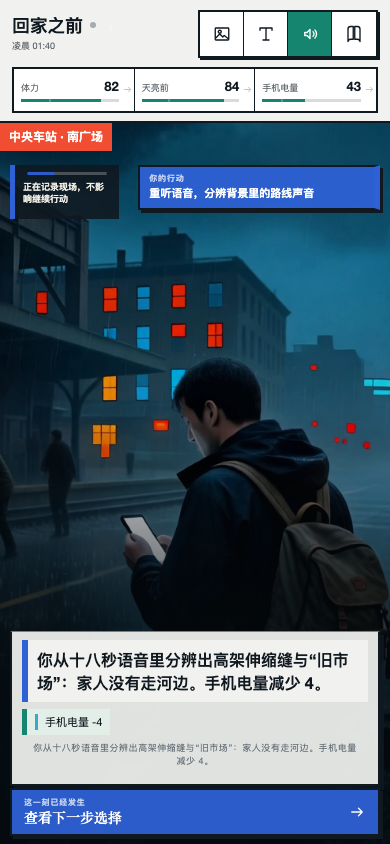
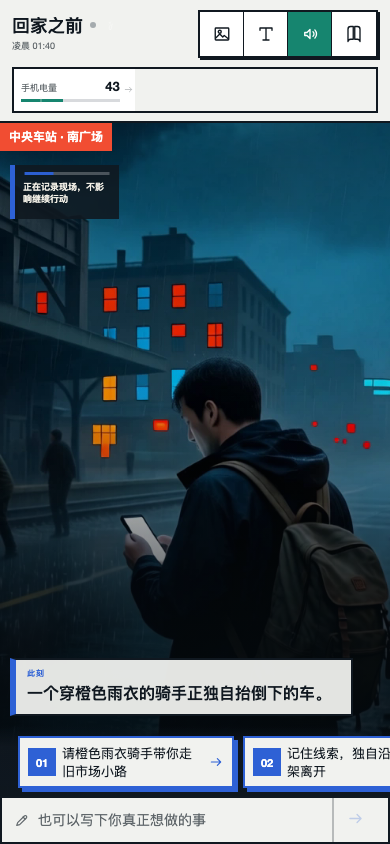
Strengthen RPG domain rules and openings

diff --git a/src/story/cartridges/beforeWeGetHome.ts b/src/story/cartridges/beforeWeGetHome.ts
@@ -14,10 +14,18 @@ function build(locale: Locale): StoryCartridge {
   const domainRules: StoryDomainRules = {
     rules: [
       {
+        id: 'hear-last-message', intent: 'hear-last-message',
+        match: zh ? ['播放母亲留下的最后一条语音'] : ["play mother's last message"],
+        requirements: [{ type: 'fact', id: 'opening-message-heard', notEquals: true, reason: s('这段语音已经播放过，不能重复结算第一次听见它的代价。', 'The message has already played; its first-hearing cost cannot resolve twice.') }],
+        effects: [{ type: 'stat', id: 'battery', delta: -4 }, { type: 'fact', id: 'opening-message-heard', value: true }, { type: 'fact', id: 'voice-old-market-clue', value: true }, { type: 'fact', id: 'battery-stat-revealed', value: true }],
+        successText: s('你亲手播放那十八秒语音。母亲让你别走河边；雨声后还有三次高架伸缩缝的低响和一句“旧市场”。手机电量从 47 降到 43。近处，一个穿橙色雨衣的骑手正独自抬倒下的车。', 'You play the eighteen-second message yourself. Mother warns you away from the river; beneath the rain are three overpass-joint thumps and “Old Market.” Battery falls from 47 to 43. Nearby, a rider in an orange rain jacket struggles with a fallen scooter.'),
+        successChoices: zh ? ['请橙色雨衣骑手带你走旧市场小路', '记住线索，独自沿高架离开', '把线索告诉车站救援人员核对'] : ['Ask the orange-jacket rider to guide you through Old Market', 'Keep the clue and leave alone by the elevated road', 'Share the clue with station rescuers for verification'],
+      },
+      {
         id: 'replay-last-message', intent: 'replay-last-message',
         match: zh ? ['重听语音', '分辨背景里的路线声音', '再听一次语音'] : ['replay the message', 'identify background route sounds', 'listen to the message again'],
         requirements: [{ type: 'fact', id: 'voice-old-market-clue', notEquals: true, reason: s('你已经确认了旧市场线索，重复播放不会产生第二条线索。', 'You already confirmed the Old Market clue; replaying cannot create a second clue.') }],
-        effects: [{ type: 'stat', id: 'battery', delta: -4 }, { type: 'fact', id: 'voice-old-market-clue', value: true }],
+        effects: [{ type: 'stat', id: 'battery', delta: -4 }, { type: 'fact', id: 'voice-old-market-clue', value: true }, { type: 'fact', id: 'battery-stat-revealed', value: true }],
         successText: s('你从十八秒语音里分辨出高架伸缩缝与“旧市场”：家人没有走河边。手机电量减少 4。', 'You isolate elevated-road joints and “Old Market” in the message: the family avoided the river. Battery falls by 4.'),
         successChoices: zh ? ['请橙色雨衣骑手带你走旧市场小路', '记住线索，独自沿高架离开', '把线索告诉车站救援人员核对'] : ['Ask the orange-jacket rider to guide you through Old Market', 'Keep the clue and leave alone by the elevated road', 'Share the clue with station rescuers for verification'],
         rejectionChoices: zh ? ['请橙色雨衣骑手带路', '立即沿高架离开车站', '先帮助广场居民撤离'] : ['Ask the orange-jacket rider for directions', 'Leave immediately by the elevated road', 'Help residents evacuate the plaza'],
@@ -26,10 +34,26 @@ function build(locale: Locale): StoryCartridge {
         id: 'help-ahe-and-exit', intent: 'help-ahe-and-exit',
         match: zh ? ['帮广场上的骑手抬开倒下的车', '请橙色雨衣骑手带你走旧市场小路', '请骑手带你走旧市场小路'] : ['help a rider move a fallen scooter', 'ask the orange-jacket rider to guide you through Old Market', 'ask the rider to guide you through the Old Market'],
         requirements: [{ type: 'fact', id: 'station-exited', notEquals: true, reason: s('你们已经离开车站，不能再次结算同一次相遇。', 'You have already left the station; the same meeting cannot resolve twice.') }],
-        effects: [{ type: 'party', change: 'add', characterId: 'ahe-rider' }, { type: 'map', nodeId: 'old-market' }, { type: 'stat', id: 'time', delta: -7 }, { type: 'fact', id: 'station-exited', value: true }, { type: 'objective', value: s('穿过旧市场火点，继续追踪家人', 'Cross the Old Market fire and continue tracking the family') }, { type: 'clock', value: s('凌晨 02:05', '02:05 AM') }],
+        effects: [{ type: 'party', change: 'add', characterId: 'ahe-rider' }, { type: 'map', nodeId: 'old-market' }, { type: 'stat', id: 'time', delta: -7 }, { type: 'stat', id: 'stamina', delta: -3 }, { type: 'fact', id: 'station-exited', value: true }, { type: 'fact', id: 'time-stat-revealed', value: true }, { type: 'fact', id: 'stamina-stat-revealed', value: true }, { type: 'objective', value: s('穿过旧市场火点，继续追踪家人', 'Cross the Old Market fire and continue tracking the family') }, { type: 'clock', value: s('凌晨 02:05', '02:05 AM') }],
         successText: s('橙色雨衣骑手先扶正电动车，才说自己叫阿禾；她也在找夜班姐姐，并与你同行到旧市场。天亮前减少 7。', 'The orange-jacket rider rights the scooter before naming herself Ahe. She is searching for her night-shift sister and joins you to Old Market. Before-dawn time falls by 7.'),
         successChoices: zh ? ['和阿禾先拉下市场总电闸', '从屋顶雨棚绕过火点继续赶路', '呼喊店内的人并组织居民撤离'] : ['Pull the market main breaker with Ahe', 'Use the awning roofs to bypass the fire', 'Call to the trapped people and organize evacuation'],
         rejectionChoices: zh ? ['查看旧市场当前火势', '沿已确认路线继续前进', '检查阿禾是否仍在同行'] : ['Check the current Old Market fire', 'Continue along the confirmed route', 'Check whether Ahe is still with you'],
+      },
+      {
+        id: 'exit-alone', intent: 'exit-alone', match: zh ? ['记住线索，独自沿高架离开', '立即沿高架方向离开车站'] : ['keep the clue and leave alone by the elevated road', 'leave now toward the elevated road'],
+        requirements: [{ type: 'fact', id: 'station-exited', notEquals: true, reason: s('你已经离开车站，不能重复领取同一段赶路时间。', 'You already left the station; the same travel segment cannot resolve twice.') }],
+        effects: [{ type: 'map', nodeId: 'old-market' }, { type: 'stat', id: 'time', delta: -4 }, { type: 'stat', id: 'stamina', delta: -5 }, { type: 'fact', id: 'station-exited', value: true }, { type: 'fact', id: 'direct-route-kept', value: true }, { type: 'fact', id: 'time-stat-revealed', value: true }, { type: 'fact', id: 'stamina-stat-revealed', value: true }, { type: 'objective', value: s('独自穿过旧市场，继续追踪家人', 'Cross Old Market alone and continue tracking the family') }, { type: 'clock', value: s('凌晨 01:58', '01:58 AM') }],
+        successText: s('你没有等待同行者，沿高架快步抵达旧市场。你保住了三分钟，却在碎石和积水里消耗了体力；这条直接路线以后会被记住。', 'You do not wait for a companion and reach Old Market by the elevated road. You save three minutes but spend stamina crossing rubble and water; the direct route is now remembered.'),
+        successChoices: zh ? ['先拉下市场总电闸', '从屋顶雨棚绕过火点', '呼喊店内的人并组织撤离'] : ['Pull the market main breaker', 'Use awning roofs to bypass the fire', 'Call to the trapped people and organize evacuation'],
+        rejectionChoices: zh ? ['查看旧市场当前火势', '沿已确认路线继续前进', '检查车站线索是否已保存'] : ['Check the current Old Market fire', 'Continue along the confirmed route', 'Check whether the station clue was saved'],
+      },
+      {
+        id: 'share-message', intent: 'share-message', match: zh ? ['把线索告诉车站救援人员核对', '把语音分享给车站救援人员核对'] : ['share the clue with station rescuers for verification', 'share the message with station rescuers for verification'],
+        requirements: [{ type: 'fact', id: 'voice-shared-with-rescue', notEquals: true, reason: s('救援人员已经收到这段语音，重复分享不会产生第二份验证。', 'Rescuers already received the message; sharing it again creates no second verification.') }],
+        effects: [{ type: 'stat', id: 'battery', delta: -3 }, { type: 'stat', id: 'time', delta: -5 }, { type: 'fact', id: 'voice-shared-with-rescue', value: true }, { type: 'fact', id: 'battery-stat-revealed', value: true }, { type: 'fact', id: 'time-stat-revealed', value: true }],
+        successText: s('你把母亲的私人语音交给车站救援员核对。他们确认“旧市场”广播来自东向高架，也把这条线索加入整片街区的搜救记录；手机再少 3 格电，天亮前少 5。', 'You let station rescuers verify Mother’s private message. They confirm the Old Market broadcast came from the eastbound overpass and add the clue to the district search record; Battery falls by 3 and Before Dawn by 5.'),
+        successChoices: zh ? ['请橙色雨衣骑手带路', '立即沿高架离开车站', '先帮助广场居民撤离'] : ['Ask the orange-jacket rider for directions', 'Leave immediately by the elevated road', 'Help residents evacuate the plaza'],
+        rejectionChoices: zh ? ['请橙色雨衣骑手带路', '立即沿高架离开车站', '查看救援人员的路线标记'] : ['Ask the orange-jacket rider for directions', 'Leave immediately by the elevated road', 'Check the rescuers route mark'],
       },
     ],
   }
@@ -244,16 +268,18 @@ function build(locale: Locale): StoryCartridge {
     dangerDirector,
     domainRules,
     endingDirector,
-    initialFacts: { 'family-last-known-stadium': true, 'player-has-last-message': true, 'direct-route-kept': false },
+    initialFacts: { 'family-last-known-stadium': true, 'player-has-last-message': true, 'direct-route-kept': false, 'opening-message-heard': false, 'voice-old-market-clue': false, 'voice-shared-with-rescue': false, 'station-exited': false, 'battery-stat-revealed': false, 'time-stat-revealed': false, 'stamina-stat-revealed': false },
     statDefinitions: [
-      { id: 'stamina', label: s('体力', 'Stamina'), min: 0, max: 100, initial: 82, inverse: true, display: 'bar', warningAt: 30, dangerAt: 0, maxDelta: 22 },
-      { id: 'time', label: s('天亮前', 'Before dawn'), min: 0, max: 100, initial: 84, inverse: true, display: 'bar', warningAt: 28, dangerAt: 0, maxDelta: 18 },
-      { id: 'battery', label: s('手机电量', 'Phone battery'), min: 0, max: 100, initial: 47, inverse: true, display: 'bar', warningAt: 20, dangerAt: 0, maxDelta: 20 },
+      { id: 'stamina', label: s('体力', 'Stamina'), min: 0, max: 100, initial: 82, inverse: true, display: 'bar', warningAt: 30, dangerAt: 0, maxDelta: 22, revealedByFact: 'stamina-stat-revealed' },
+      { id: 'time', label: s('天亮前', 'Before dawn'), min: 0, max: 100, initial: 84, inverse: true, display: 'bar', warningAt: 28, dangerAt: 0, maxDelta: 18, revealedByFact: 'time-stat-revealed' },
+      { id: 'battery', label: s('手机电量', 'Phone battery'), min: 0, max: 100, initial: 47, inverse: true, display: 'bar', warningAt: 20, dangerAt: 0, maxDelta: 20, revealedByFact: 'battery-stat-revealed' },
     ],
     drawerLabels: { party: s('同行者', 'Companions'), map: s('城市路线', 'City route'), inventory: s('应急包', 'Emergency bag'), log: s('线索', 'Clues') },
     opening: {
       location: s('中央车站 · 南广场', 'Central Station · South Plaza'), time: s('凌晨 01:40', '01:40 AM'), objective: s('离开停电车站，去河滨体育馆寻找母亲和小宇', 'Leave the disabled station and reach Riverside Stadium to find your mother and Xiaoyu'),
       imagePrompt: 'outside a disabled central railway station at night just after an earthquake, SUBJECT A shown with the complete visual identity from the supplied player reference, with a dim blank phone and a small practical backpack resting beside SUBJECT A instead of being held, rain, wet asphalt, residents helping each other, damaged road toward distant emergency glow, before the player chooses a route, grounded contemporary documentary realism, 4:5 portrait, all signs and screens blank, no writing, no text, no UI',
+      entryImagePrompt: 'SUBJECT A pressing play on a blank-screen phone under the dark station awning after an earthquake, rain and broken paving, an orange-jacket rider struggling with a fallen scooter nearby, grounded contemporary documentary realism, complete visible player identity, 4:5 portrait, no writing, no text, no UI',
+      entryAction: s('播放母亲留下的最后一条语音', "Play mother's last message"),
       blocks: [
         { id: 'bh0', kind: 'narration', text: s('凌晨一点四十分，你只是个赶着回家的普通人，刚走到中央车站南广场。', 'At 1:40 AM, you are simply an ordinary person trying to get home, just arriving at Central Station’s South Plaza.') },
         { id: 'bh1', kind: 'event', text: s('灯突然全灭。余震掀动脚下的地砖，雨水随即从裂开的站台边缘灌进广场。', 'Every light dies at once. An aftershock lifts the paving beneath you, and rain spills from the cracked platform edge into the plaza.') },
@@ -262,11 +288,7 @@ function build(locale: Locale): StoryCartridge {
         { id: 'bh4', kind: 'event', text: s('语音停在二十三分钟前。信号随即消失；你的手机还剩 47% 电量。', 'The message is stamped twenty-three minutes ago. The signal drops away; your phone has 47% battery left.') },
         { id: 'bh5', kind: 'event', text: s('高架方向仍能通行，语音里的背景声也许藏着路线；近处，一个穿橙色雨衣的骑手正独自抬倒下的电动车。', 'The elevated road still looks passable, and the message may hide a route clue; nearby, a rider in an orange rain jacket strains alone against a fallen scooter.') },
       ],
-      choices: [
-        { id: 'voice', label: s('重听语音，分辨背景里的路线声音', 'Replay the message and identify background route sounds') },
-        { id: 'exit', label: s('立即沿高架方向离开车站', 'Leave now toward the elevated road') },
-        { id: 'help', label: s('先帮广场上的骑手抬开倒下的车', 'Help a rider move a fallen scooter first') },
-      ],
+      choices: [],
     },
     characters: [
       { id: 'lin-lan-mother', name: s('林岚', 'Lin Lan'), role: s('玩家的母亲', 'Player’s mother'), vitality: 72, stress: 68, detail: s('努力保持冷静，带着小宇和一名行动不便的邻居转移。', 'Trying to stay calm while moving Xiaoyu and a mobility-impaired neighbor.'), lore: s('做过社区急救培训，遇到危险会先确认身边最需要帮助的人。', 'Completed community first-aid training and checks who nearby needs help most.'), skills: [{ id: 'first-aid', label: s('急救', 'First aid'), value: 3 }, { id: 'coordinate', label: s('协调', 'Coordinate'), value: 3 }] },

diff --git a/src/story/StoryShell.tsx b/src/story/StoryShell.tsx
@@ -144,7 +144,7 @@ function ConversationHeader({ cartridge, engine, audio, openWorld, openHistory, 
       </div>
     </div>
     <div className="st-chat-stats" aria-label={t(cartridge.locale, 'stats')}>
-      {cartridge.statDefinitions.map((stat) => {
+      {cartridge.statDefinitions.filter((stat) => !stat.revealedByFact || engine.save.facts[stat.revealedByFact] === true || engine.save.scene > 2).map((stat) => {
         const value = engine.save.stats[stat.id] ?? stat.initial
         const presentation = statPresentation(stat, value)
         return <button type="button" className={`st-chat-stat st-chat-stat--${stat.display ?? 'number'} is-${presentation.tone}`} onClick={() => openWorld('party', { type: 'player', statId: stat.id })} aria-label={t(cartridge.locale, 'openStatDetails', { name: stat.label })} key={stat.id}>
@@ -301,13 +301,13 @@ function compactBeat(blocks: StoryBlock[], overlayId: string | undefined, uiVari
   return [narration, ...dialogue, ...outcome].filter((block): block is StoryBlock => Boolean(block))
 }
 
-function CinematicStage({ cartridge, engine, player, previewScene, onReturnLatest, onOpeningReadyChange, uiVariant, turnPhase, lastAction }: {
+function CinematicStage({ cartridge, engine, player, previewScene, onReturnLatest, onDecisionReadyChange, uiVariant, turnPhase, lastAction }: {
   cartridge: StoryCartridge
   engine: ReturnType<typeof useStoryEngine>
   player: PlayerProfile
   previewScene: number | null
   onReturnLatest: () => void
-  onOpeningReadyChange: (ready: boolean) => void
+  onDecisionReadyChange: (ready: boolean) => void
   uiVariant: UiVariant
   turnPhase: TurnPhase
   lastAction: string
@@ -352,12 +352,12 @@ function CinematicStage({ cartridge, engine, player, previewScene, onReturnLates
   const [civicBeatHeight, setCivicBeatHeight] = useState<number | null>(null)
   useEffect(() => { setCaptionPage(0) }, [selectedOverlayBlock?.id, scene])
   useEffect(() => {
-    if (!openingDecision) {
-      onOpeningReadyChange(true)
+    if (isPreview || turnPhase !== 'decision' || scene > 3) {
+      onDecisionReadyChange(true)
       return
     }
-    onOpeningReadyChange(openingSequence.length > 0 && captionPage >= openingSequence.length - 1)
-  }, [captionPage, onOpeningReadyChange, openingDecision, openingSequence.length])
+    onDecisionReadyChange(captionPages.length <= 1 || captionPage >= captionPages.length - 1)
+  }, [captionPage, captionPages.length, isPreview, onDecisionReadyChange, scene, turnPhase])
   useEffect(() => {
     if (uiVariant !== 'civic' || turnPhase !== 'result' || isPreview) {
       setCivicBeatHeight(null)
@@ -394,7 +394,7 @@ function CinematicStage({ cartridge, engine, player, previewScene, onReturnLates
       {overlayBlock && <div className={`ct-stage__caption ct-stage__caption--${overlayBlock.kind}`}>
         {speakerInitial && <span className="ct-stage__speaker" aria-hidden="true">{speakerInitial}</span>}
         <div><small>{overlayBlock.speaker ?? t(cartridge.locale, 'now')}</small><p>{captionText}</p></div>
-        {captionPages.length > 1 && (!openingDecision || captionPage < captionPages.length - 1) && <button type="button" className="ct-stage__caption-page" aria-label={t(cartridge.locale, 'nextCaptionPage')} onClick={() => setCaptionPage((current) => openingDecision ? Math.min(captionPages.length - 1, current + 1) : (current + 1) % captionPages.length)}><span>{captionPage + 1}/{captionPages.length}</span><Icon name="arrow" /></button>}
+        {captionPages.length > 1 && (scene > 3 || turnPhase !== 'decision' || captionPage < captionPages.length - 1) && <button type="button" className="ct-stage__caption-page" aria-label={t(cartridge.locale, 'nextCaptionPage')} onClick={() => setCaptionPage((current) => scene <= 3 && turnPhase === 'decision' ? Math.min(captionPages.length - 1, current + 1) : (current + 1) % captionPages.length)}><span>{captionPage + 1}/{captionPages.length}</span><Icon name="arrow" /></button>}
       </div>}
       <figcaption><span>{image?.text ?? engine.save.location}</span><small>{t(cartridge.locale, 'sceneNumber', { n: scene + 1 })}</small></figcaption>
     </figure>
@@ -660,7 +660,7 @@ function Game({ cartridge, mode, chatId, onSelect, onLocaleChange, uiVariant }: 
   const [confirmResumeRestart, setConfirmResumeRestart] = useState(false)
   const [textSize, setTextSizeState] = useState<TextSize>(() => readTextSize())
   const [turnPhase, setTurnPhase] = useState<TurnPhase>('decision')
-  const [openingReady, setOpeningReady] = useState(false)
+  const [decisionNarrativeReady, setDecisionNarrativeReady] = useState(false)
   const [lastAction, setLastAction] = useState('')
   const submittedScene = useRef(engine.save.scene)
   const previousScene = useRef(engine.save.scene)
@@ -718,8 +718,7 @@ function Game({ cartridge, mode, chatId, onSelect, onLocaleChange, uiVariant }: 
   }, [engine.busy, engine.save.scene])
 
   useEffect(() => {
-    if (engine.save.scene > 0) setOpeningReady(true)
-    else if (previousScene.current > 0) setOpeningReady(false)
+    setDecisionNarrativeReady(engine.save.scene > 3)
     previousScene.current = engine.save.scene
   }, [engine.save.scene])
 
@@ -826,23 +825,23 @@ function Game({ cartridge, mode, chatId, onSelect, onLocaleChange, uiVariant }: 
       if (event.key.toLowerCase() === 'w' && !(event.target instanceof HTMLInputElement)) setWorldOpen(true)
       if (event.key.toLowerCase() === 'h' && !(event.target instanceof HTMLInputElement)) setHistoryOpen(true)
       const index = Number(event.key) - 1
-      const canChoose = turnPhase === 'decision' && (engine.save.scene > 0 || openingReady)
+      const canChoose = turnPhase === 'decision' && decisionNarrativeReady
       if (canChoose && index >= 0 && index < engine.save.choices.length && !(event.target instanceof HTMLInputElement)) act(engine.save.choices[index].label)
     }
     window.addEventListener('keydown', onKey)
     return () => window.removeEventListener('keydown', onKey)
-  }, [engine.save.choices, engine.busy, engine.save.scene, openingReady, showResumeLatest, turnPhase])
+  }, [decisionNarrativeReady, engine.save.choices, engine.busy, engine.save.scene, showResumeLatest, turnPhase])
 
   if (!engine.loaded) return <div className="st-loading" style={setCssTheme(cartridge)}><i /><span>{t(cartridge.locale, 'restoring')}</span></div>
-  if (!engine.save.entered) return <Entry cartridge={cartridge} onEnter={() => { audio.cue('open'); engine.enter() }} onSelect={onSelect} mode={engine.mode} setMode={engine.setMode} hasSave={engine.save.scene > 0} remoteAvailable={Boolean(engine.save.remoteChatId)} />
-  const stage = <CinematicStage cartridge={cartridge} engine={engine} player={player} previewScene={previewScene} onReturnLatest={() => setPreviewScene(null)} onOpeningReadyChange={setOpeningReady} uiVariant={uiVariant} turnPhase={turnPhase} lastAction={lastAction} />
+  if (!engine.save.entered) return <Entry cartridge={cartridge} onEnter={() => { audio.cue('open'); setLastAction(cartridge.opening.entryAction ?? cartridge.copy.enter); setTurnPhase(cartridge.opening.entryAction ? 'result' : 'decision'); engine.enter() }} onSelect={onSelect} mode={engine.mode} setMode={engine.setMode} hasSave={engine.save.scene > 0} remoteAvailable={Boolean(engine.save.remoteChatId)} />
+  const stage = <CinematicStage cartridge={cartridge} engine={engine} player={player} previewScene={previewScene} onReturnLatest={() => setPreviewScene(null)} onDecisionReadyChange={setDecisionNarrativeReady} uiVariant={uiVariant} turnPhase={turnPhase} lastAction={lastAction} />
   const finaleBlocking = engine.save.finale.status !== 'idle' && !engine.save.finale.epilogueActive
   const controls = finaleBlocking ? null : previewScene != null
     ? <button type="button" className="ct-return-latest" onClick={() => setPreviewScene(null)}>{t(cartridge.locale, 'returnLatest')}<Icon name="arrow" /></button>
     : turnPhase === 'decision'
-      ? engine.save.scene === 0 && !openingReady ? null : <Composer cartridge={cartridge} engine={engine} onAct={act} uiVariant={uiVariant} />
+      ? !decisionNarrativeReady ? null : <Composer cartridge={cartridge} engine={engine} onAct={act} uiVariant={uiVariant} />
       : turnPhase === 'result' && !engine.error
-        ? <button type="button" className={`ct-turn-next ${uiVariant === 'civic' ? 'ct-civic-next' : 'ct-living-next'}`} onClick={() => { setTurnPhase('decision'); setLastAction('') }}><span><small>{t(cartridge.locale, 'resultReady')}</small><strong>{t(cartridge.locale, 'showNextChoices')}</strong></span><Icon name="arrow" /></button>
+        ? <button type="button" className={`ct-turn-next ${uiVariant === 'civic' ? 'ct-civic-next' : 'ct-living-next'}`} onClick={() => { setDecisionNarrativeReady(engine.save.scene > 3); setTurnPhase('decision'); setLastAction('') }}><span><small>{t(cartridge.locale, 'resultReady')}</small><strong>{t(cartridge.locale, 'showNextChoices')}</strong></span><Icon name="arrow" /></button>
         : null
   const civicViewportState = previewScene != null ? 'is-preview' : `is-${turnPhase}${engine.error ? ' has-error' : ''}`
   return <main className={`st-shell st-shell--${cartridge.theme.material}`} data-text-size={textSize} style={setCssTheme(cartridge)}>

diff --git a/src/story/useStoryEngine.ts b/src/story/useStoryEngine.ts
@@ -6,7 +6,7 @@ import { aigramAdapter } from './adapters/aigram'
 import { mockAdapter } from './adapters/mock'
 import { remoteAdapter } from './adapters/remote'
 import { resolveCartridge } from './cartridges'
-import { applyParsedScene, createImageBlock, createInitialSave, createRecoveryChoices, localizeKnownState, normalizeCharacterState, updateImageBlock, updateInventoryItemImage } from './engine/reducer'
+import { applyParsedScene, createImageBlock, createInitialSave, createRecoveryChoices, enterStory, localizeKnownState, normalizeCharacterState, updateImageBlock, updateInventoryItemImage } from './engine/reducer'
 import { isProtocolResidueText, parseStoryProtocol } from './engine/protocol'
 import { shouldRepairDirectPlayerAction, shouldUsePlayerImageReference, upgradePendingSceneImagePrompts } from './engine/imageDirector'
 import { buildPlayerIdentityPrompt } from './engine/imageIdentity'
@@ -341,11 +341,7 @@ export function useStoryEngine(cartridge: StoryCartridge, initialMode: StoryMode
       .finally(() => { videoBusy.current = false })
   }, [commit, generateVideo, mediaDirector.minVideoGapTurns, mediaDirector.videoDuration, mediaDirector.videoEnabled, milestoneImage, milestoneKey, save.blocks, save.entered])
 
-  const enter = useCallback(() => commit((current) => {
-    const openingImage = current.blocks.find((block) => block.kind === 'image')
-    const entered = { ...current, locale: cartridge.locale, entered: true }
-    return openingImage && openingImage.data?.status === 'idle' ? updateImageBlock(entered, openingImage.id, { status: 'queued' }) : entered
-  }), [cartridge.locale, commit])
+  const enter = useCallback(() => commit((current) => enterStory(current, cartridge)), [cartridge, commit])
 
   const act = useCallback(async (action: string, actionLocale: Locale = cartridge.locale) => {
     const finale = saveRef.current.finale
@@ -360,7 +356,9 @@ export function useStoryEngine(cartridge: StoryCartridge, initialMode: StoryMode
       const dangerDirective = domainResolution?.status === 'rejected' || domainOwnsDanger(domainResolution)
         ? undefined
         : buildDangerDirective(base, activeCartridge, normalizedAction)
-      const result = await adapter.send(normalizedAction, { cartridge: activeCartridge, save: base, actionId: normalizedAction, locale: actionLocale, dangerDirective, domainResolution }, setProgress)
+      const result = domainResolution
+        ? { content: '' }
+        : await adapter.send(normalizedAction, { cartridge: activeCartridge, save: base, actionId: normalizedAction, locale: actionLocale, dangerDirective }, setProgress)
       const parsed = parseStoryProtocol(result.content, actionLocale)
       commit((current) => applyParsedScene(localizeKnownState(current, cartridge, activeCartridge), parsed, activeCartridge, normalizedAction, result.imagePrompt, result.imageSubject, dangerDirective, domainResolution))
       setPendingAction('')

diff --git a/src/story/engine/reducer.ts b/src/story/engine/reducer.ts
@@ -3,7 +3,7 @@ import { t } from '../i18n'
 import { chooseSceneImage } from './imageDirector'
 import { createInitialDangerState, normalizeDangerState, settleDangerTurn } from './dangerDirector'
 import { canStartTrueEnding } from './endingDirector'
-import { applyDomainResolution, domainAllowsModelCommand, syncDomainDerivedState } from './domainRules'
+import { applyDomainResolution, domainAllowsModelCommand, resolveDomainAction, syncDomainDerivedState } from './domainRules'
 
 function clamp(value: number, min: number, max: number): number {
   return Math.max(min, Math.min(max, value))
@@ -33,6 +33,17 @@ export function createInitialSave(cartridge: StoryCartridge, remoteChatId?: stri
     finale: { status: 'idle' },
   }
   return syncDomainDerivedState(initial, cartridge)
+}
+
+export function enterStory(save: StorySave, cartridge: StoryCartridge): StorySave {
+  const openingImage = save.blocks.find((block) => block.kind === 'image')
+  const entered = { ...save, locale: cartridge.locale, entered: true }
+  const entryAction = cartridge.opening.entryAction?.trim()
+  if (entryAction && save.scene === 0 && !save.lastActionId) {
+    const resolution = resolveDomainAction(entered, cartridge, entryAction)
+    if (resolution?.status === 'accepted') return applyParsedScene(entered, { blocks: [], commands: [], raw: '' }, cartridge, entryAction, cartridge.opening.entryImagePrompt, 'player', undefined, resolution)
+  }
+  return openingImage && openingImage.data?.status === 'idle' ? updateImageBlock(entered, openingImage.id, { status: 'queued' }) : entered
 }
 
 type CharacterCommand = Extract<ParsedCommand, { type: 'character_update' | 'party_change' }>

diff --git a/src/story/types.ts b/src/story/types.ts
@@ -28,6 +28,7 @@ export interface StatDefinition {
   warningAt?: number
   dangerAt?: number
   maxDelta?: number
+  revealedByFact?: string
 }
 export interface SkillDefinition { id: string; label: string; value: number }
 export type CharacterStatus = 'known' | 'companion' | 'departed'
@@ -340,7 +341,7 @@ export interface StoryCartridge {
   initialFacts?: Record<string, StoryFactValue>
   statDefinitions: [StatDefinition, StatDefinition, StatDefinition]
   drawerLabels: Record<DrawerId, string>
-  opening: { location: string; time: string; objective: string; imagePrompt: string; blocks: StoryBlock[]; choices: Choice[] }
+  opening: { location: string; time: string; objective: string; imagePrompt: string; entryImagePrompt?: string; blocks: StoryBlock[]; choices: Choice[]; entryAction?: string }
   characters: CharacterDefinition[]
   initialPartyMemberIds?: string[]
   initialMap: MapNode[]

diff --git a/_qa/opening-contract.ts b/_qa/opening-contract.ts
@@ -11,8 +11,9 @@ for (const cartridge of [beforeWeGetHome, beforeWeGetHomeEn]) {
   assert.match(beats[3]?.text ?? '', /河滨体育馆|Riverside Stadium/i)
   assert.match(beats[4]?.text ?? '', /47%/)
   assert.match(beats[5]?.text ?? '', /橙色雨衣|orange rain jacket/i)
-  assert.equal(cartridge.opening.choices.length, 3)
+  assert.equal(cartridge.opening.choices.length, 0)
+  assert.ok(cartridge.opening.entryAction)
   assert(beats.every((beat) => beat.text.trim().length > 0))
 }
 
-console.log(JSON.stringify({ ok: true, openingBeats: 6, choicesAfterFinalBeat: 3 }))
+console.log(JSON.stringify({ ok: true, openingBeats: 6, entryAction: true, choicesBeforeEntryAction: 0 }))

diff --git a/src/story/engine/domainRules.ts b/src/story/engine/domainRules.ts
@@ -205,7 +205,7 @@ export function applyDomainResolution(save: StorySave, cartridge: StoryCartridge
     }
   })
   syncDomainDerivedState(save, cartridge)
-  blocks.push({ id: `domain-${save.scene}`, kind: 'event', text: resolution.successText, data: { domainRule: resolution.ruleId, domainStatus: 'accepted' } })
+  blocks.push({ id: `domain-${save.scene}`, kind: 'narration', text: resolution.successText, data: { domainRule: resolution.ruleId, domainStatus: 'accepted' } })
   return blocks
 }
 

diff --git a/doc/visual.md b/doc/visual.md
@@ -52,6 +52,7 @@
 - 使用统一 24×24 线性 SVG：历史、字号、声音、世界、手机、地图、背包、人物、伤势、返回和发送；禁止 Emoji 功能图标。
 - 情境字幕只承载新增局面、必要后果或人物对白；普通旁白小标题统一为“此刻”。选项足以表达动作时不渲染字幕卡，禁止显示“请做出选择”或 `image_subject / image_prompt` 等内部协议。
 - 第 `0` 场把同一张危机建立图当作连续镜头底板，字幕按 `6` 个亲历节拍单向推进；每页只承担一个新动作或证据。前五页底部保持安静，不预览选择、不显示自由输入；第六页字幕完成即时局面交接后，分页控件退出，行动码头才出现。
+- 进入页“听完最后一条语音”是第一个真实动作：先展示本地结算的语音线索和电量结果，再由玩家推进。第 1–3 场同样要求读完当场字幕页才显示选择；第 4 场后恢复普通节奏，避免长期玩法变成逐页确认。
 - 状态 HUD 是三格应急仪表，安静显示；值跨警戒线时才出现文字警告与形状变化。
 - 可选行动默认浅灰底、应急黄边/序号和同色硬阴影；按下后填充黄、深墨字。禁用态取消阴影并显示锁定原因。
 - 人物对白带方形身份牌或头像、姓名和分页；旁白不用虚构头像。

diff --git a/doc/requirements.md b/doc/requirements.md
@@ -1,5 +1,7 @@
 # 《回家之前》需求文档
 
+> 2026-08-12 改造实验：入口按钮必须是一次真实行动；首次行动产生可持久事实与明确资源后果。开场受管动作不得请求 AI，三种首选方法必须留下不同事实或数值轨迹；三项状态按玩家亲历逐步揭示。通过信号为一次点击得到首事实、受管链路零模型请求、刷新后事实与数值不丢失。
+
 ## 1. Overview
 
 《回家之前 / Before We Get Home》是一款影像优先的现代灾难公路式 AI 角色扮演游戏：地震与暴雨切断城市，玩家作为一个没有特殊能力的普通人，必须在天亮和洪峰到来前穿过七个熟悉城区，依据家人的最后一条语音寻找母亲和弟弟；途中救下谁、相信谁、把有限电量和物资花在哪里，会改变路线、同伴和最后的团聚。
